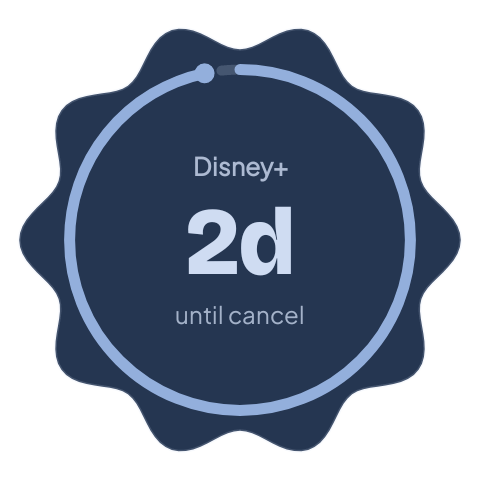
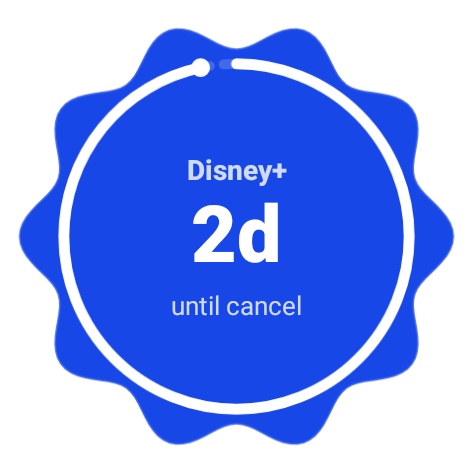
docs(readme): refresh screenshots and documentation for Bold Color-Block and Google Sans Flex redesign

diff --git a/README.md b/README.md
@@ -48,39 +48,39 @@ Standard streaming and digital subscriptions lock you into 12 back-to-back auto-
 
 ### Privacy-First Local Core
 - **Zero Internet & Zero Exact-Alarm Permissions** — SubCycler never declares `android.permission.INTERNET` or `USE_EXACT_ALARM`. No ads, no telemetry, no accounts, and no cloud sync. Everything stays in local Room (SQLite) and Preferences DataStore *(Android's system backup and device transfer settings can include the local database)*.
-- **Single App-Wide Currency & Offline Regional Tiers** — Choose your currency once during onboarding with curated offline plan tiers (`USD`, `JPY`, `EUR`, `GBP`, `CAD`, `AUD`, `INR`, `KRW`). Changing currency later in Settings shows an explicit offline manual-conversion notice instead of fabricating exchange rates.
+- **Single App-Wide Currency & Offline Regional Tiers** — Pick your currency directly from the Welcome top bar with curated offline plan tiers (`USD`, `JPY`, `EUR`, `GBP`, `CAD`, `AUD`, `INR`, `KRW`). Changing currency later in Settings shows an explicit offline manual-conversion notice instead of fabricating exchange rates.
 - **Optional Local Calendar Awareness** — Disabled by default; once enabled, reads selected on-device calendars locally to suggest timely subscription reviews around travel or busy stretches.
 
 ### Material 3 Expressive Craft
-- **70/30 Neutral-to-Accent Restraint & Icon-Driven Theming** — Calm Alabaster (Light) and Obsidian-Graphite (Dark) surfaces keep the interface quiet, while **6 curated launcher icons** (`Botanical`, `Cinema`, `Ocean`, `Terracotta`, `Aurora`, `Obsidian`, plus Android 13+ monochrome themed icons) drive the app's accent color across the wordmark, savings seal, active controls, detached scalloped `+` button, notifications, and widgets.
-- **Living Stack Mood & Dynamic 3-Petal Swirl** — Raw brand colors across Top 20 presets are harmonized into soft WCAG AAA pastel tonal palettes (zero third-party trademarked logos). With **Living stack mood** enabled, the Hero silk-waves backdrop, top-bar 3-petal swirl mark, and splash transition softly reflect your top 3 active subscriptions.
-- **Gliding Liquid Dock & Fluid Navigation** — Always-visible tab labels inside a gliding pill indicator (`Subs`, `Planner`, `Savings`), directional horizontal tab transitions, full-height filter swiping (`All`, `Active`, `Paused`, `Rotating`), and a multi-level nested Settings sheet.
-- **Offline Variable Typography** — Bundles SIL OFL `Bricolage Grotesque` (editorial display numerals and headlines) and `Plus Jakarta Sans` (body, labels, and wide-tracked eyebrows) directly in the APK.
+- **Bold Color-Block Heroes & Triadic Pop Seals** — Calm Alabaster (Light) and Obsidian-Graphite (Dark) canvases frame pure flat jewel-colored hero blocks accented with high-contrast triadic `Cookie12` savings seals, animated curly rhythm waves, and true-hue harmonized service vessels (zero third-party trademarked logos).
+- **2-Mode Adaptive Theme & Auto-Matching Launcher Icon** — Default **Auto** (`Adapt to subscriptions`) automatically adapts the app accent tokens, 3-petal top-bar swirl, home-screen widgets, notifications, and Android launcher icon to your active stack mood. Switch to **Custom** in Welcome or Settings to pick freely from **6 curated Bold Color-Block themes & launcher icons** (`Botanical`, `Cinema`, `Ocean`, `Terracotta`, `Aurora`, `Obsidian`, plus Android 13+ monochrome themed icons).
+- **Unified Offline Google Sans Flex Typography** — Bundles 8 offline SIL OFL v1.1 **Google Sans Flex** cuts across three expressive width tiers: **Expanded (`wdth = 125`)** for screen titles and softly faded section headers (`Your stack`, `Cycles`, `Breakdown`), **Semi-Wide (`wdth = 112.5`)** for hero spend numerals and card titles, and **Standard (`wdth = 100`)** for body copy, chips, buttons, and inputs.
+- **Zero-Jank Gliding Liquid Dock & Reactive Motion** — Persistent hardware-layer tab slots deliver smooth decoupled fade-through transitions between `Subs`, `Planner`, and `Savings`, paired with spring-reactive icons, full-height filter swiping (`All`, `Active`, `Paused`, `Rotating`), and an interactive Welcome preview right from Settings.
 
 ### Rotation Studio, Planner & Offline Stack Sharing
-- **Auto-Saving 3-Step Setup & Incomplete Tracking** — Split into **Basics**, **Cycle**, and **Notes** with zero Save buttons and swipe-down protection. Partially filled items save cleanly with progressive badges (`Needs price`, `Needs date`, `Needs cycle`) without triggering premature alerts.
-- **Interactive Cycle Strategy Studio** — Switch between `Always`, `Smart` (45-day), `Swap`, and `Custom` schedules with a live 90-day active/break ribbon and tactile `0d–45d` break slider.
-- **Planner, Paired Swap & Editorial Savings** — Inspect future billing/break windows on duration-proportional timelines, coordinate alternating 30d/30d services with a 60-day Baton-Pass visualizer, and track banked savings alongside `1Y → 3Y → 5Y` compounding projections.
+- **Minimal 2-Tab Auto-Saving Editor (`Details` · `Cycle`)** — Calm monochrome utility sheet with zero Save buttons, tucked Brand Color customization behind the service badge, swipe-down protection, and progressive incomplete badges (`Needs price`, `Needs date`, `Needs cycle`).
+- **Interactive Cycle Studio & Wave Scrubber** — Switch between `Always`, `Smart` (45-day), `Swap`, and `Custom` schedules with a live 90-day active/break ribbon (surfacing the break slider and active-window stepper only in `Custom`), and scrub future dates directly on the subscription detail sheet's curly progress wave.
+- **Planner, Paired Swap & Editorial Savings** — Forecast active and rest windows with quick-jump presets (`Today`, `+15d`, `+30d`, `+45d`) and uniform snap-fling brand timelines, pair two alternating 30d/30d services in the 60-day Baton-Pass studio, and track banked savings alongside `1Y → 3Y → 5Y` compounding projections.
 - **Offline QR Stack Cards & Short Links** — Export a branded PNG **Stack Card** with embedded QR code, scan live in-app QRs, or share compact `subcycler://s/...` deep links and `.subcycler` backup files with a 1-tap privacy toggle for notes and savings history.
 
 ---
 
 ## Home-Screen Widgets
 
-Two 100% offline expressive widgets sync live with your active **App Icon accent**, **Living Stack Mood**, and **Light/Dark Theme**:
+Two 100% offline native `RemoteViews` widgets sync live with your active **Living Stack Mood**, **App Icon accent**, and **Light/Dark Theme**:
 
-- **SubCycler · Living Pulse** — Responsive across **`2×2`** (Compact Seal + mini rhythm bar), **`4×2`** (Hero + frosted Next-Up ribbon), and **`4×3`** (Hero + top 3 individually clickable chromatic Cycle Vessel rows).
-- **SubCycler · Next Up Cookie** — Sculptural **`2×2`** floating silhouette (`10`-petal cookie for rotating cycles, squircle for continuous, `12`-petal sunny seal when a break is ready to bank) on a transparent canvas with a sweeping perimeter progress arc.
+- **SubCycler · Living Pulse** — Responsive across **`2×2`** (Compact Color-Block + Triadic seal), **`4×2`** (Hero + Next-Up cancellation ribbon), and **`4×3`** (Hero + top 3 individually clickable service rows).
+- **SubCycler · Next Up Cookie** — Sculptural **`2×2`** floating silhouette (`10`-petal cookie for rotating cycles, squircle for continuous, `12`-petal sunny seal when a break is ready to bank) on a transparent canvas with a sweeping perimeter progress ring.
 
 <div align="center">
 
 | Living Pulse · 2×2 (Dark) | Next Up Cookie · 2×2 (Floating Silhouette) |
 | :---: | :---: |
-| <img src="docs/screenshots/widget_living_2x2.png" alt="Living Stack Pulse 2x2 widget in Dark Mode with dynamic swirl logo, effective monthly spend, mini rhythm bar, and tilted 12-petal savings seal" width="220"> | <img src="docs/screenshots/widget_next_up_cookie.png" alt="Next Up Cookie 2x2 sculptural scalloped countdown widget tinted in Disney+ slate-blue pastel with perimeter cycle progress arc" width="220"> |
+| <img src="docs/screenshots/widget_living_2x2.png" alt="Living Stack Pulse 2x2 native widget in Dark Mode with Bold Color-Block hero, dynamic swirl logo, effective monthly spend, rhythm bar, and Triadic lime savings seal" width="220"> | <img src="docs/screenshots/widget_next_up_cookie.png" alt="Next Up Cookie 2x2 sculptural 10-petal countdown widget in Disney+ cobalt with sweeping perimeter progress ring" width="220"> |
 
 | Living Pulse · 4×2 (Ocean Accent) | Living Pulse · 4×3 (Light · Cycle Vessel Deck) |
 | :---: | :---: |
-| <img src="docs/screenshots/widget_living_4x2_ocean.png" alt="Living Stack Pulse 4x2 wide widget synced to the Ocean icon accent with a frosted Next-Up cancellation ribbon" width="380"> | <img src="docs/screenshots/widget_living_4x3_light.png" alt="Living Stack Pulse 4x3 tall widget in Light Mode pairing the silk-waves hero card with 3 clickable chromatic service rows" width="380"> |
+| <img src="docs/screenshots/widget_living_4x2_ocean.png" alt="Living Stack Pulse 4x2 wide native widget in Ocean Bold Color-Block with Triadic savings seal and Next-Up cancellation ribbon" width="380"> | <img src="docs/screenshots/widget_living_4x3_light.png" alt="Living Stack Pulse 4x3 tall native widget in Light Mode pairing the Bold Color-Block hero with 3 clickable brand-badged service rows" width="380"> |
 
 </div>
 
@@ -88,18 +88,18 @@ Two 100% offline expressive widgets sync live with your active **App Icon accent
 
 ## Expressive Alerts
 
-Local `AlarmManager` and `WorkManager` reminders carry SubCycler's visual system straight into the Android notification shade:
+Local `AlarmManager` and `WorkManager` reminders use **Hybrid Native Android Notifications** (`DecoratedCustomViewStyle`) that respect the system shade, font scaling, and Dark/Light surfaces:
 
-- **Organic Harmonized Monogram Badges** — Scalloped `LargeIcon` badges tinted per service and accented by your chosen launcher icon.
-- **Expanded Cycle Rhythm Cards (`BigPictureStyle`)** — Displays the live 2-zone wavy active + `45°` hatched break track alongside a tilted scalloped savings seal.
+- **Borderless Bold Jewel Monogram Badges** — Organic scalloped `LargeIcon` badges (`Cookie9` / `Sunny12`) harmonized to each service.
+- **Transparent Curly Rhythm Strips** — Slim live 2-zone curly active + `45°` hatched break strip rendered directly on the native shade surface with zero boxed card chrome.
 - **1-Tap Inline Shade Actions** — Tap **`Already cancelled`**, **`Keep (+30d)`**, or **`Bank & Resume`** right from the shade to update Room, reschedule alarms, and refresh widgets without opening the app.
-- **Quiet 2-Step Action Progress & Settings Preview** — Opening a provider billing link posts a silent, non-minimized progress notification (`Step 1 · In Progress` → `Step 2 · Tap Completed`) with next-launch recovery. Preview both alert styles safely anytime from **Settings → Notifications & Calendar → Preview expressive alerts**.
+- **Quiet 2-Step Action Progress & Settings Preview** — Opening a provider billing link posts a silent progress alert (`Step 1` → `Step 2 · Tap Completed`) with next-launch recovery. Preview both alert styles anytime from **Settings → Notifications & Calendar → Preview alerts**.
 
 <div align="center">
 
-| Expanded Cycle Rhythm Card | 2-Step Action Progress Banner |
+| Hybrid Cycle Rhythm Alert | 2-Step Action Progress Alert |
 | :---: | :---: |
-| <img src="docs/screenshots/notification_rhythm_card.png" alt="Expanded notification Cycle Rhythm Card showing organic monogram badge, status pill, tilted 12-petal savings seal, and wavy active plus hatched break track" width="410"> | <img src="docs/screenshots/notification_progress_card.png" alt="2-step Subscribe and Unsubscribe notification progress banner guiding users from provider cancellation to tapping Completed" width="410"> |
+| <img src="docs/screenshots/notification_rhythm_card.png" alt="Hybrid native Android renewal alert with borderless Disney+ jewel cookie badge, transparent curly active plus hatched break strip, and inline Already cancelled and Keep actions" width="410"> | <img src="docs/screenshots/notification_progress_card.png" alt="Quiet 2-step Unsubscribing progress alert with transparent curly progress strip and Completed action" width="410"> |
 
 </div>
 
@@ -109,17 +109,17 @@ Local `AlarmManager` and `WorkManager` reminders carry SubCycler's visual system
 
 <div align="center">
 
-| Home · Light | Home · Dark (Ocean + Living Mood) | Swirl-to-Mood Splash |
+| Welcome · Rhythm & Theme | Home · Light | Home · Dark (Living Mood) |
 | :---: | :---: | :---: |
-| <img src="docs/screenshots/dashboard.png" alt="SubCycler home dashboard in adaptive Light Mode with Botanical Emerald hero card and 2-column Bento cards" width="240"> | <img src="docs/screenshots/dashboard_dark.png" alt="SubCycler home dashboard in Dark Mode showing Ocean accent theming, Living Stack Mood hero wash, and Gliding Liquid Dock" width="240"> | <img src="docs/screenshots/splash_screen.png" alt="Swirl-to-mood launch splash screen animating SubCycler's 3-petal swirl mark over monochrome silk waves" width="240"> |
+| <img src="docs/screenshots/welcome.png" alt="SubCycler Welcome screen featuring Bold Color-Block Pause Binge Save hero, animated 30d/15d rhythm wave, top-bar currency picker, and Auto/Custom Theme and Icon studio" width="240"> | <img src="docs/screenshots/dashboard.png" alt="SubCycler Home dashboard in Light Mode with Bold Color-Block hero, Triadic lime savings seal, expanded Google Sans Flex Your stack title, and 2-column Bento cards" width="240"> | <img src="docs/screenshots/dashboard_dark.png" alt="SubCycler Home dashboard in Dark Mode showing Living Stack Mood theming, Your stack expanded header, harmonized Bento cards, and Gliding Liquid Dock" width="240"> |
 
-| Auto-Saving Cycle Studio | Cycle Timeline & Date Inspector | Paired Swap (30d / 30d) |
+| Cycle Detail & Wave Scrubber | Minimal 2-Tab Cycle Studio | Planner · Cycle Timeline |
 | :---: | :---: | :---: |
-| <img src="docs/screenshots/cycle_strategy.png" alt="Auto-saving 3-step subscription form showing the Interactive Cycle Strategy Studio with 90-day rhythm preview and break slider" width="240"> | <img src="docs/screenshots/planner.png" alt="Planner Cycle Timeline showing Date Inspector and duration-proportional hatched break blocks" width="240"> | <img src="docs/screenshots/paired_swap.png" alt="Paired Swap planner showing the 60-day Baton-Pass alternating visualizer and yearly savings preview" width="240"> |
+| <img src="docs/screenshots/detail_sheet.png" alt="Subscription detail bottom sheet showing Netflix active window, interactive curly progress wave scrubber, annual cost projection, and clean action grid" width="240"> | <img src="docs/screenshots/cycle_strategy.png" alt="Calm minimal 2-tab subscription editor on the Cycle tab featuring neutral Always, Smart, Swap, and Custom controls with live 90-day rhythm preview" width="240"> | <img src="docs/screenshots/planner.png" alt="Planner Cycle Timeline showing Bold Color-Block Date Inspector, quick-jump presets, expanded Cycles heading, and uniform snap-fling brand timelines" width="240"> |
 
-| Editorial Savings & 5-Year ROI | Appearance & Icon Studio | Expressive Notification Shade |
+| Planner · Paired Swap | Savings & 5-Year ROI | Appearance & Adaptive Icon |
 | :---: | :---: | :---: |
-| <img src="docs/screenshots/savings.png" alt="Savings screen showing projected 5-year compounding growth curve, earned savings, and per-service breakdown" width="240"> | <img src="docs/screenshots/settings_appearance.png" alt="Nested Appearance and Icon settings page featuring Theme Mode selector, 6 curated launcher icon accents with Stack Fit recommendation, and Living Stack Mood toggle" width="240"> | <img src="docs/screenshots/notification_shade.png" alt="Live Android notification shade displaying the expanded Cycle Rhythm renewal card with inline actions and quiet 2-step unsubscribe progress alert" width="240"> |
+| <img src="docs/screenshots/paired_swap.png" alt="Paired Swap studio displaying Bold Color-Block savings hero, 30d/30d service pair cards, and 60-day Baton-Pass cycle visualizer" width="240"> | <img src="docs/screenshots/savings.png" alt="Savings tab featuring projected 5-year compounding growth curve, Earned/1Y/3Y horizon cards, expanded Breakdown header, and What-If Simulator" width="240"> | <img src="docs/screenshots/settings_appearance.png" alt="Appearance and Icon settings sheet showing System/Light/Dark selector, Adapt to subscriptions auto-matching launcher icon lock, and Preview welcome shortcut" width="240"> |
 
 </div>
 
@@ -131,7 +131,7 @@ SubCycler maintains architectural blueprints and design specifications alongside
 
 | Document | Scope |
 | :--- | :--- |
-| [`DESIGN.md`](DESIGN.md) | Botanical Emerald Material 3 Expressive v4.0 tokens, typography, shapes, and motion |
+| [`DESIGN.md`](DESIGN.md) | Material 3 Expressive tokens, Google Sans Flex typography, shapes, and motion |
 | [`ARCHITECTURE.md`](ARCHITECTURE.md) | Clean Architecture boundaries, SOLID rules, and multi-module dependency graph |
 | [`PLANS.md`](PLANS.md) | Master feature registry, status logs, and links into [`plans/features/`](plans/features) |
 | [`plans/CORE.md`](plans/CORE.md) | Core 45-day rotation math, scheduling guarantees, and local persistence blueprint |
@@ -144,9 +144,9 @@ SubCycler maintains architectural blueprints and design specifications alongside
 
 | Layer | Technology |
 | :--- | :--- |
-| **UI & Motion** | Kotlin 2.0 · Jetpack Compose · Material 3 · `androidx.graphics:graphics-shapes` |
+| **UI & Motion** | Kotlin 2.0 · Jetpack Compose · Material 3 · `androidx.graphics:graphics-shapes` · Google Sans Flex (OFL) |
 | **Local Data** | Room (SQLite) · Preferences DataStore · Kotlin Coroutines & Flow |
-| **Scheduling & Widgets** | `AlarmManager` · `WorkManager` · `BroadcastReceiver` · `AppWidgetProvider` + Canvas Art |
+| **Scheduling & Widgets** | `AlarmManager` · `WorkManager` · `BroadcastReceiver` · Native `RemoteViews` Widgets & Hybrid Alerts |
 | **DI & Build** | Hilt · Gradle 8.7 · Android Gradle Plugin 8.5+ · Android 8.0+ (API 26–35) |
 
 ---
@@ -188,4 +188,4 @@ Pull requests, bug reports, and design suggestions are welcome — browse [good 
 
 - Contribution guide: [`CONTRIBUTING.md`](CONTRIBUTING.md)
 - Security policy: [`SECURITY.md`](SECURITY.md)
-- License: **[MIT License](LICENSE)** (bundled Gradle Wrapper files under Apache License 2.0)
+- License: **[MIT License](LICENSE)** (bundled Gradle Wrapper files under Apache License 2.0; bundled Google Sans Flex fonts under SIL OFL 1.1)
